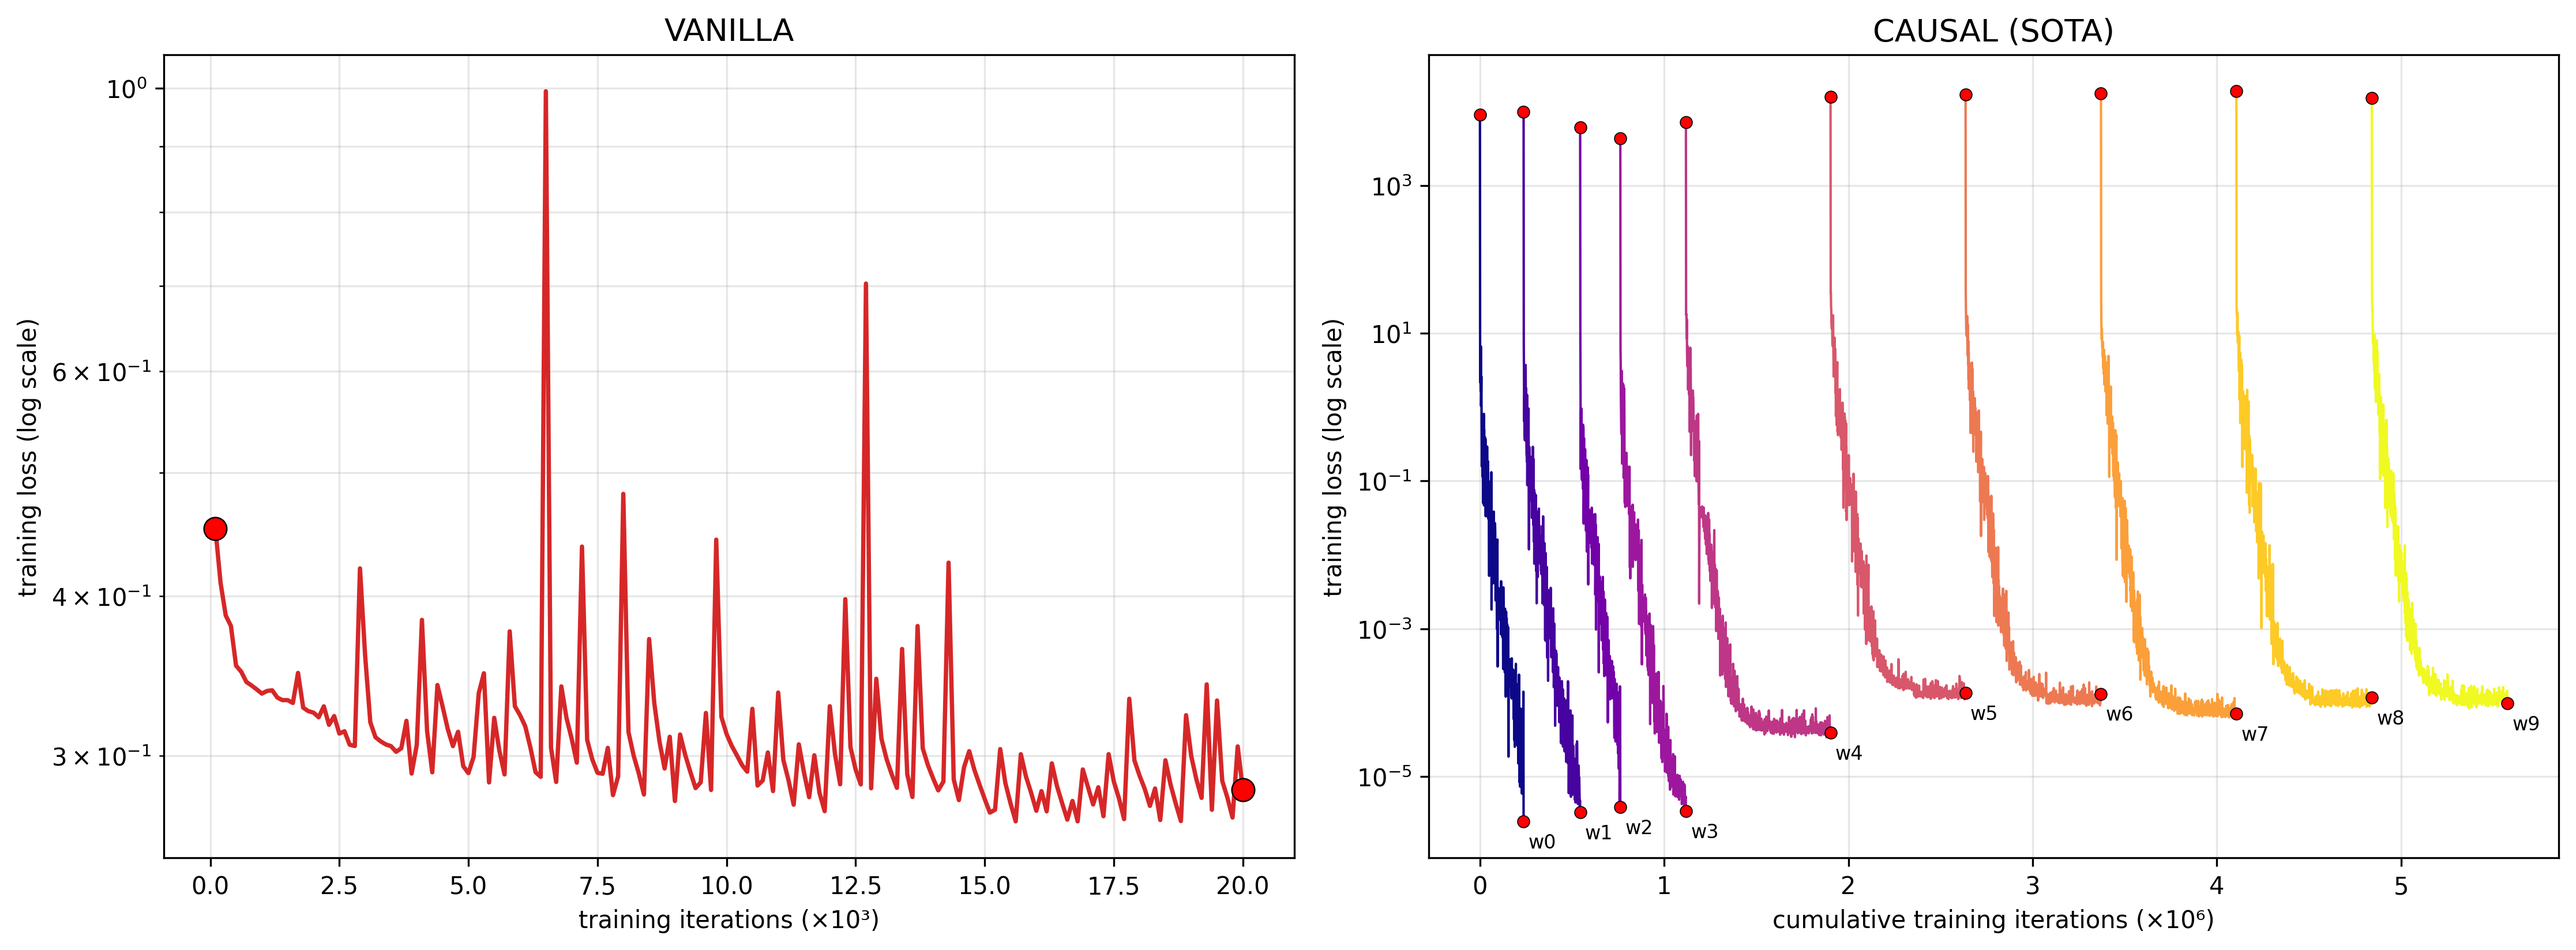
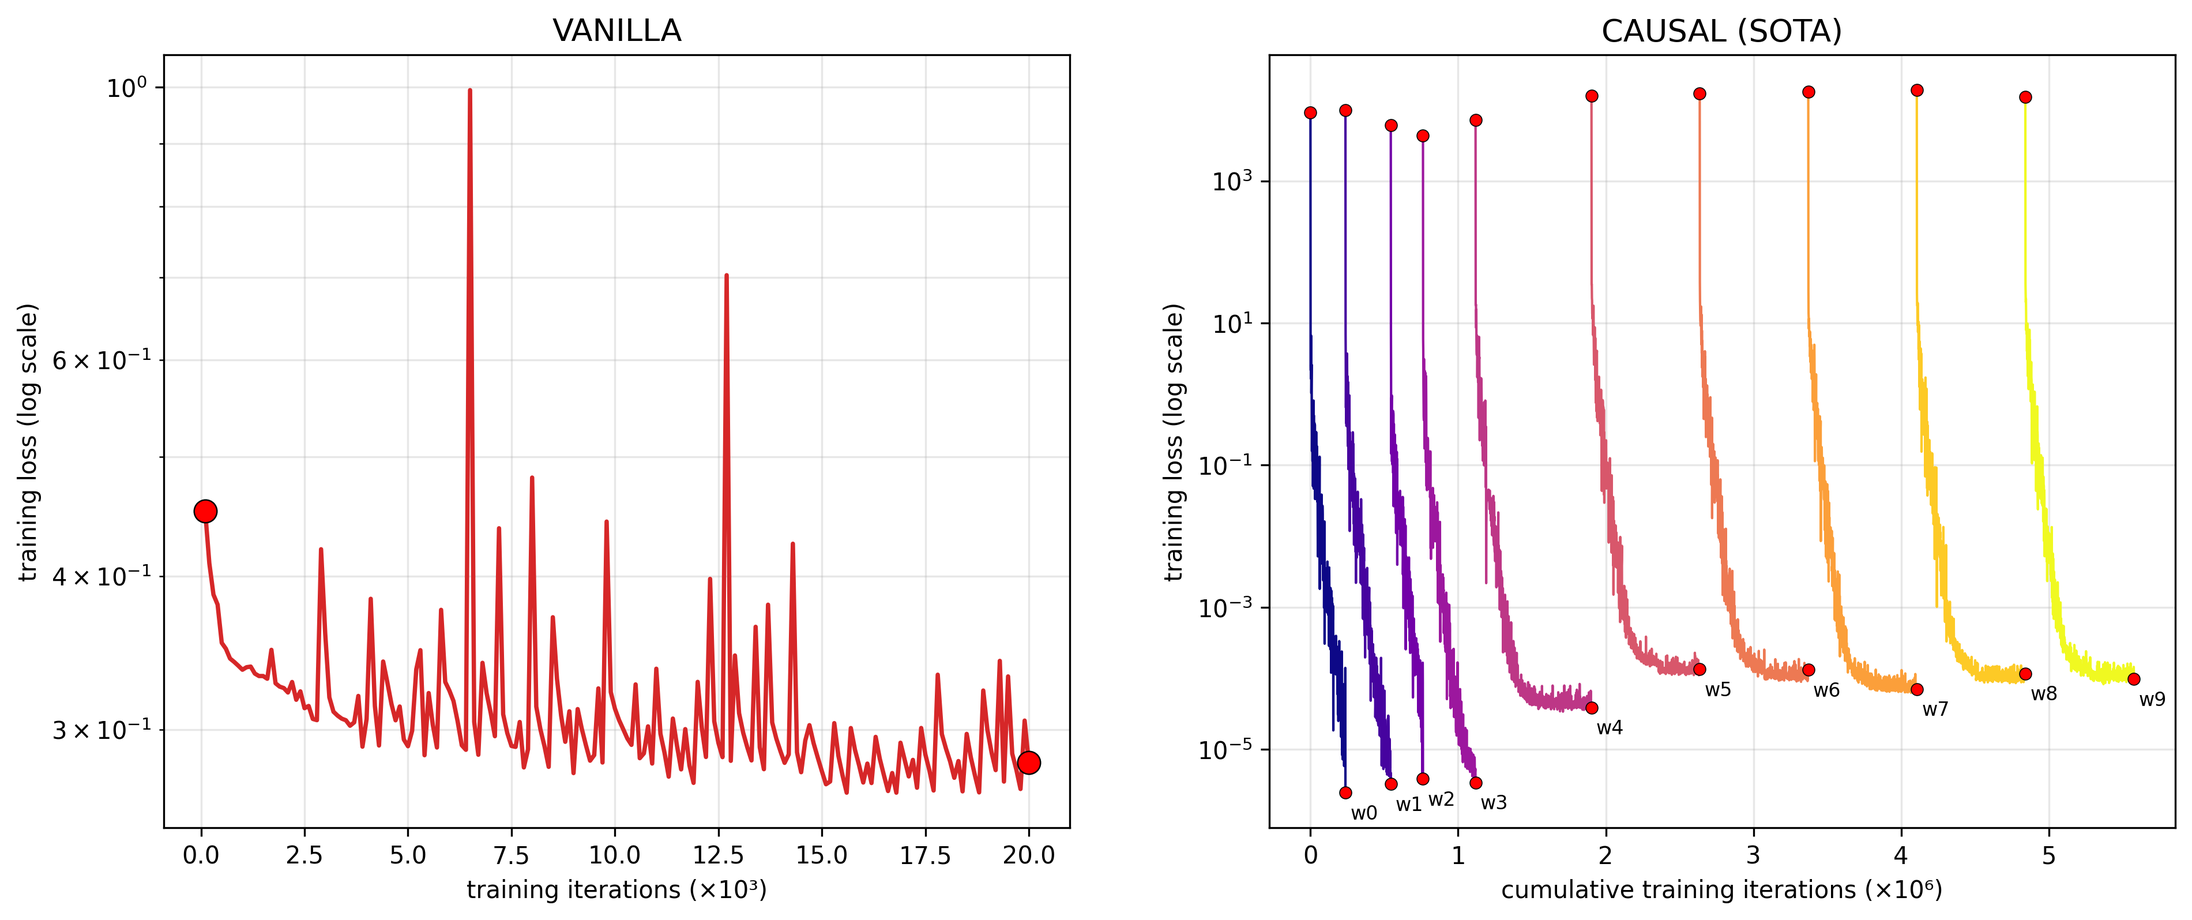
fig32: broken y-axis on the vanilla panel - spike isolated in a narrow top band, real dynamics before and after it visible in the stretched bottom band with the spike excised

diff --git a/analysis/plot_loss_traces.py b/analysis/plot_loss_traces.py
@@ -14,6 +14,7 @@ import matplotlib
 
 matplotlib.use("Agg")
 import matplotlib.pyplot as plt
+import matplotlib.gridspec as gridspec
 
 sys.path.insert(0, os.getcwd())
 sys.path.insert(0, "analysis")
@@ -36,39 +37,55 @@ def main():
     hist = np.load(os.path.join(cfg["final_dir"], "causal", "history_jax.npz"),
                    allow_pickle=True)
 
-    fig, axes = plt.subplots(1, 2, figsize=(15, 5.6))
-
-    ax = axes[0]
     st_v = m["step"].values / 1e3
     L = m["loss_train_total"].values
-    ax.semilogy(st_v, L, "-", color="tab:red", lw=1.8)
+    i_sp = int(np.argmax(L))
+    spike = L[i_sp] > 5 * np.median(L)
+    rest = L[L < 3 * np.median(L)]
+
+    fig = plt.figure(figsize=(15, 5.8))
+    outer = gridspec.GridSpec(1, 2, wspace=0.22)
+    if spike:
+        # broken y-axis: a narrow band for the spike, a stretched band for the real range
+        left = outer[0].subgridspec(2, 1, height_ratios=[1, 3.4], hspace=0.08)
+        ax_t = fig.add_subplot(left[0])
+        ax = fig.add_subplot(left[1], sharex=ax_t)
+        ax_t.semilogy(st_v, L, "-", color="tab:red", lw=1.6)
+        ax_t.set_ylim(rest.max() * 2.2, L[i_sp] * 1.5)
+        ax_t.spines["bottom"].set_visible(False)
+        ax_t.tick_params(labelbottom=False, labelsize=8)
+        ax_t.grid(alpha=0.3, which="both")
+        ax_t.set_title("VANILLA", fontsize=13)
+        ax_t.annotate(f"transient spike {L[i_sp]:.2e} at it {int(m['step'].values[i_sp]):,}",
+                      (st_v[i_sp], L[i_sp]), fontsize=9, color="darkred",
+                      xytext=(18, -8), textcoords="offset points",
+                      arrowprops=dict(arrowstyle="->", color="darkred", lw=1.2),
+                      bbox=dict(facecolor="w", alpha=0.9, edgecolor="darkred"))
+        # the curve without the spike, so the real dynamics are visible
+        Lm = L.copy()
+        Lm[L > 3 * np.median(L)] = np.nan
+        ax.semilogy(st_v, Lm, "-", color="tab:red", lw=1.8)
+        ax.axvline(st_v[i_sp], color="darkred", ls=":", lw=1.2)
+        ax.annotate("spike removed here\n(see band above)", (st_v[i_sp], rest.min() * 1.02),
+                    fontsize=8, color="darkred", xytext=(7, 4),
+                    textcoords="offset points")
+        ax.set_ylim(rest.min() * 0.97, rest.max() * 1.06)
+        ax.spines["top"].set_visible(False)
+        kw = dict(marker=[(-1, -0.6), (1, 0.6)], markersize=9, linestyle="none",
+                  color="k", mec="k", mew=1, clip_on=False)
+        ax_t.plot([0, 1], [0, 0], transform=ax_t.transAxes, **kw)
+        ax.plot([0, 1], [1, 1], transform=ax.transAxes, **kw)
+    else:
+        ax = fig.add_subplot(outer[0])
+        ax.semilogy(st_v, L, "-", color="tab:red", lw=1.8)
+        ax.set_title("VANILLA", fontsize=13)
     ax.scatter([st_v[0], st_v[-1]], [L[0], L[-1]], s=90, color="red", edgecolors="k",
                linewidths=0.6, zorder=5)
     ax.set_xlabel("training iterations (×10³)")
     ax.set_ylabel("training loss (log scale)")
-    ax.set_title("VANILLA", fontsize=13)
     ax.grid(alpha=0.3, which="both")
 
-    # a single transient spike can flatten everything else: label it and zoom the rest
-    i_sp = int(np.argmax(L))
-    rest = np.delete(L, i_sp)
-    if L[i_sp] > 5 * np.median(L):
-        ax.annotate(f"transient spike {L[i_sp]:.2e}\nat it {int(m['step'].values[i_sp]):,}",
-                    (st_v[i_sp], L[i_sp]), fontsize=9, color="darkred",
-                    xytext=(24, -18), textcoords="offset points",
-                    arrowprops=dict(arrowstyle="->", color="darkred", lw=1.3),
-                    bbox=dict(facecolor="w", alpha=0.9, edgecolor="darkred"))
-        ins = ax.inset_axes([0.30, 0.42, 0.66, 0.40])
-        ins.semilogy(st_v, L, "-", color="tab:red", lw=1.4)
-        ins.set_ylim(rest.min() * 0.93, rest.max() * 1.07)
-        ins.set_title(f"zoom without the spike: the rest spans only "
-                      f"{rest.min():.2e}–{rest.max():.2e} ({rest.max()/rest.min():.2f}×)",
-                      fontsize=8)
-        ins.tick_params(labelsize=7)
-        ins.grid(alpha=0.3, which="both")
-        ins.patch.set_alpha(0.95)
-
-    ax = axes[1]
+    ax = fig.add_subplot(outer[1])
     w, stp, ls = hist["window"], hist["step"], hist["loss"]
     order = np.lexsort((stp, w))
     w, stp, ls = w[order], stp[order], ls[order]
@@ -91,7 +108,6 @@ def main():
     ax.set_title("CAUSAL (SOTA)", fontsize=13)
     ax.grid(alpha=0.3, which="both")
 
-    fig.tight_layout()
     fig.savefig(f"{OUT}/fig32_loss_traces_{args.case}.png", dpi=args.dpi,
                 bbox_inches="tight", facecolor="white")
     print(f"saved fig32_loss_traces_{args.case}.png  "

diff --git a/analysis/REPORT.md b/analysis/REPORT.md
@@ -202,8 +202,11 @@ Three results come out of this construction, all measured:
 *Left: vanilla's single loss curve over its whole run. Right: the causal run's true
 error trace — every window chained, red = window edges. The contrast is the mechanism
 in one view: vanilla's loss moves less than a factor of 2 across 20k iterations (KS
-0.45 → 0.28; GS 1.0e-2 → 9.6e-3 — and on GS the whole curve outside one transient
-spike at iteration 12,900 spans just 9.6e-3–1.4e-2, i.e. **1.46×**, see the inset)
+0.45 → 0.28; GS 1.0e-2 → 9.6e-3). On GS the panel uses a broken y-axis: the narrow
+top band holds a single transient spike (6.7e-1 at iteration 12,900), the stretched
+bottom band shows the actual dynamics with that spike excised — flat at ~9.7e-3 with
+small bumps before it, a recovery decay from 1.4e-2 back to the same level after it;
+the whole curve outside the spike spans just **1.46×**. Vanilla's loss barely moves
 because it starts already inside the ghost basin and
 has nothing left to descend, while each causal window falls **~9.6 (KS) / ~8.8 (GS)
 orders of magnitude** from its re-initialization to its solution — ten (twenty)
